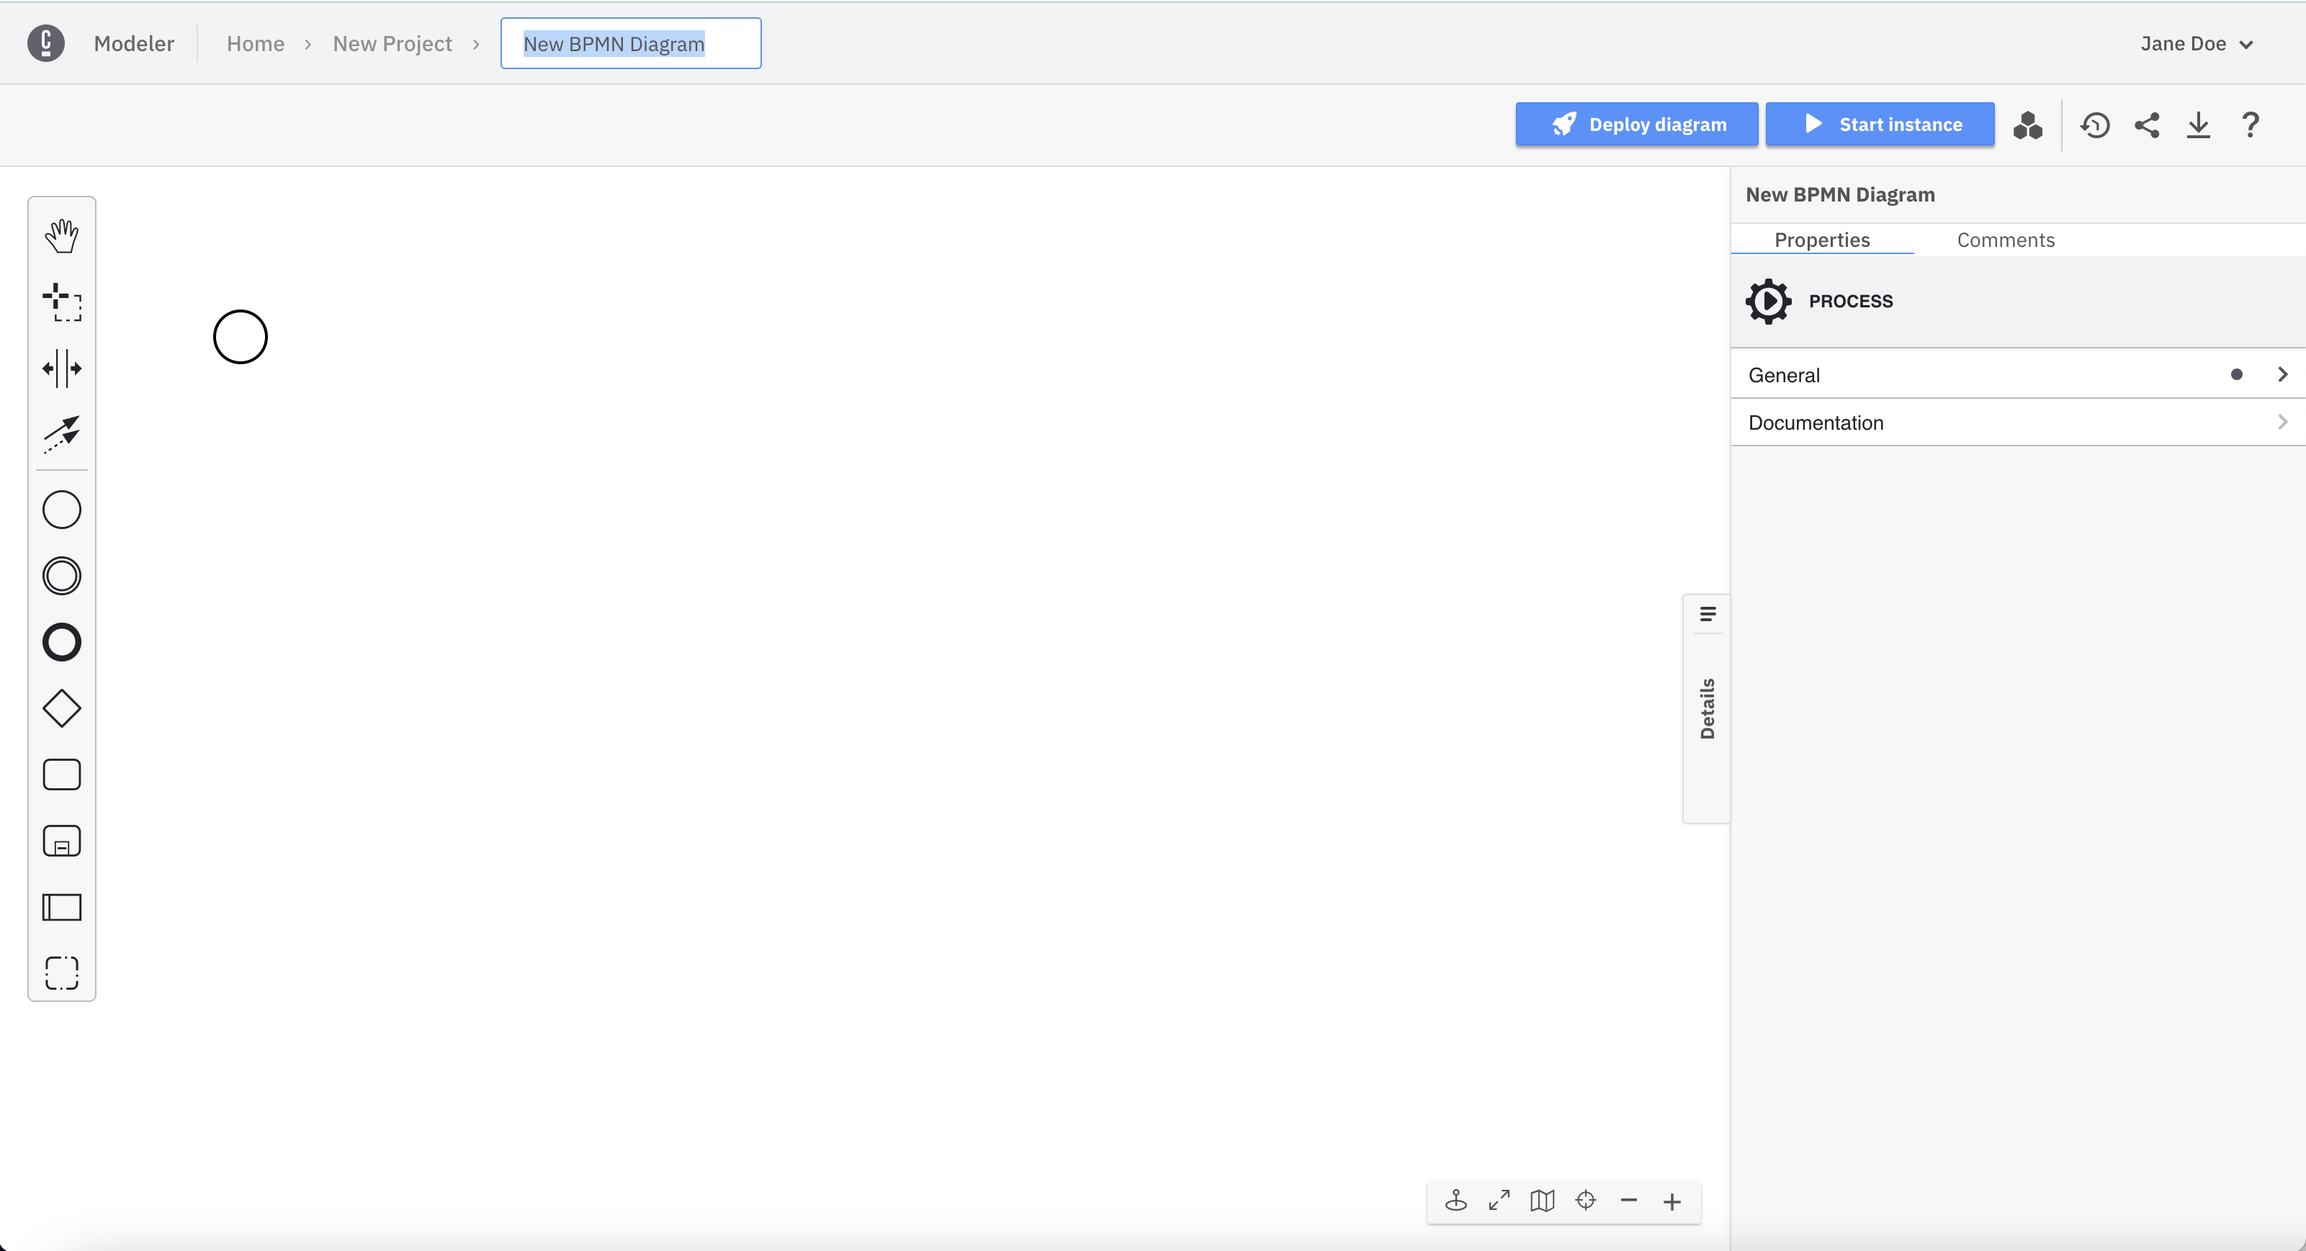
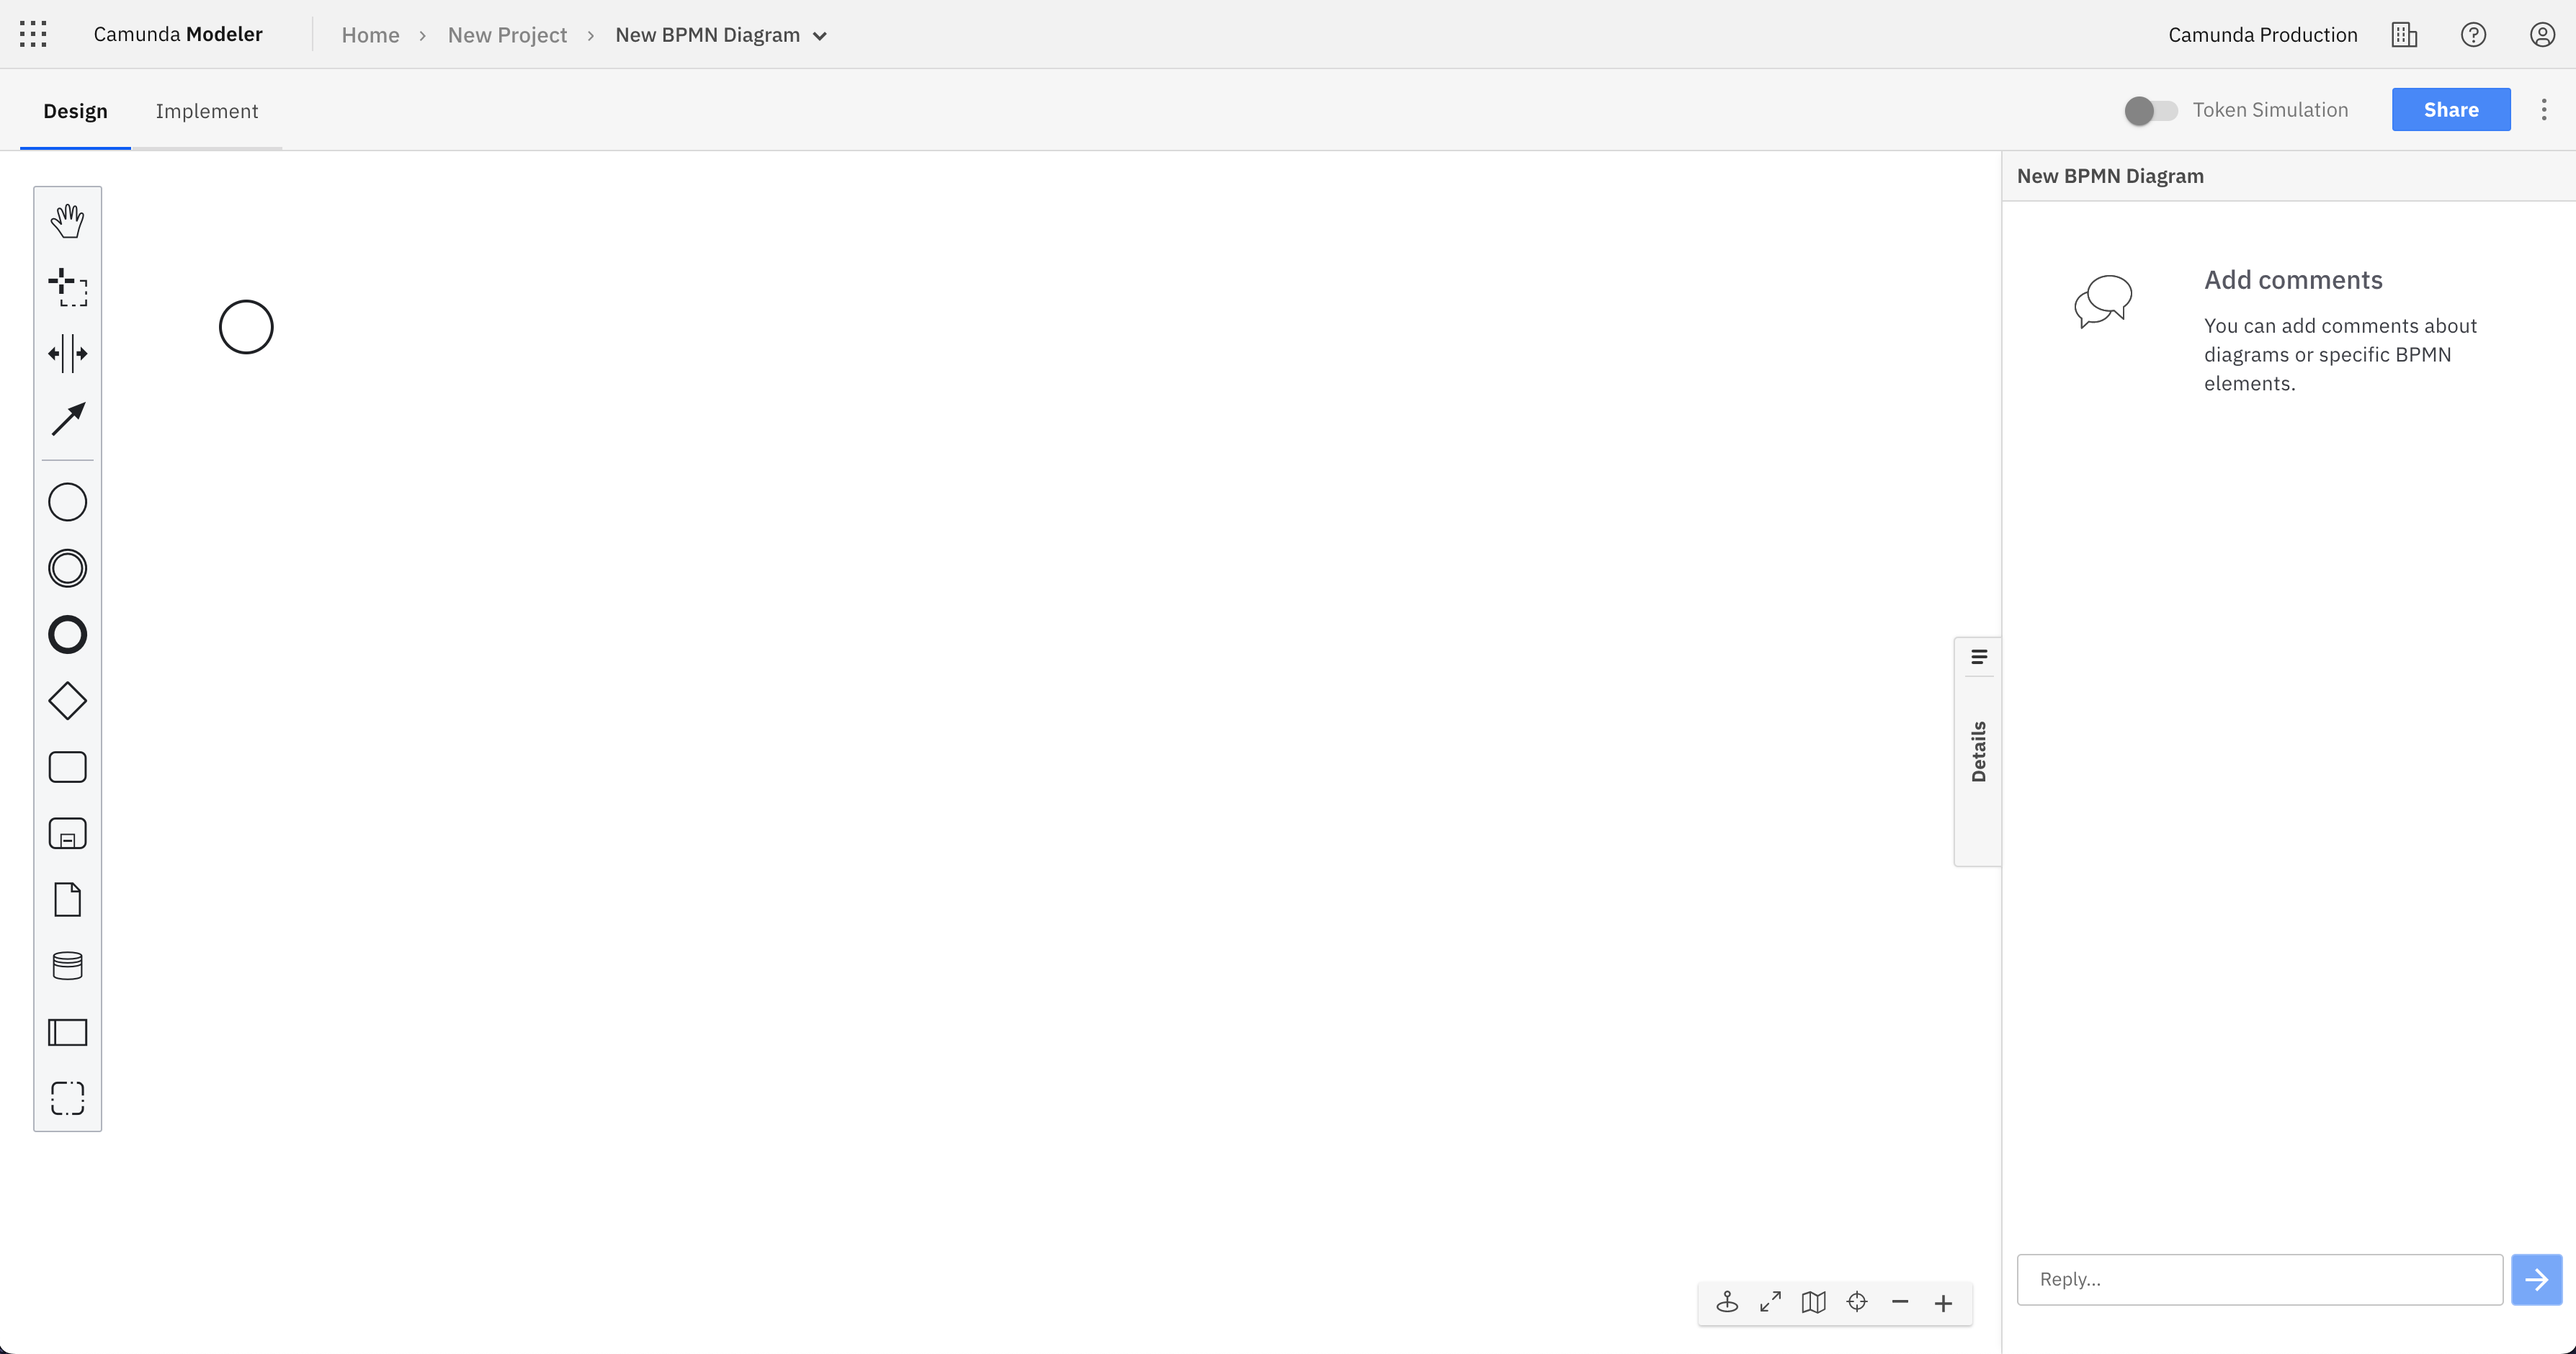
docs(bpmn-modes): add documentation about dedicated modes, and update screenshots

diff --git a/sidebars.js b/sidebars.js
@@ -115,6 +115,13 @@ module.exports = {
           "Web Modeler": [
             "components/modeler/web-modeler/new-web-modeler",
             "components/modeler/web-modeler/launch-cloud-modeler",
+            {
+              "Diagram dedicated modes": [
+                "components/modeler/web-modeler/about-dedicated-modes",
+                "components/modeler/web-modeler/design-your-process",
+                "components/modeler/web-modeler/implement-your-process",
+              ],
+            },
             "components/modeler/web-modeler/model-your-first-diagram",
             "components/modeler/web-modeler/import-diagram",
             "components/modeler/web-modeler/fix-problems-in-your-diagram",

diff --git a/docs/components/modeler/web-modeler/design-your-process.md b/docs/components/modeler/web-modeler/design-your-process.md
@@ -1,0 +1,21 @@
+---
+id: design-your-process
+title: Design your process
+description: "Design mode is tailored to business users and allows strategic modeling"
+---
+
+<span class="badge badge--cloud">Camunda Platform 8 only</span>
+
+In the **design** mode view, business users have access to a different workspace of Web Modeler with a reduced properties panel, where only comments are shown, and in general a decluttered user interface.
+
+All the technicalities, such as triggers to deploy the diagram or start the instance, are hidden.
+
+Linting is disabled, and problem annotations are discarded.
+
+The comments panel is collapsed when switching to the design mode, and if a user expands it, the state is persisted even when switching to another diagram.
+
+As a business user, you can **link decision** models and **process** models via call activities, and you can still be a **project owner**, even if you do no implementation.
+
+![design mode](img/design-mode.png)
+
+With the **design** mode view, users can model a process with ease and without feeling thrown into a complex development tool that does not speak their language, having a clear journey in place for them that incorporate focusing on modeling, sharing, and collaborating.

diff --git a/docs/components/modeler/web-modeler/about-dedicated-modes.md b/docs/components/modeler/web-modeler/about-dedicated-modes.md
@@ -1,0 +1,19 @@
+---
+id: about-dedicated-modes
+title: What are dedicated modes?
+description: "Dedicated modes are ways for business and IT professionals to collaborate effectively"
+---
+
+<span class="badge badge--cloud">Camunda Platform 8 only</span>
+
+Collaboration between business and IT professionals can be challenging, that's why we have introduced two modes in BPMN diagrams, that help users with different technical background to collaborate effectively.
+
+The **design** mode view is tailored to business users, and the **implementation** mode view is tailored to developers.
+
+Business users can now focus on modeling, sharing, and collaborating, while developers can work on implementation with ease.
+
+When accessing a BPMN diagram for the first time, the **design** mode will be the first selected option. Anyway, any further selection will be remembered and kept for the next sessions.
+
+![modes tab navigation](img/mode-tab-navigation.png)
+
+Note: When a process template is selected, the default mode will be the **implement** one.

diff --git a/docs/components/modeler/web-modeler/implement-your-process.md b/docs/components/modeler/web-modeler/implement-your-process.md
@@ -1,0 +1,17 @@
+---
+id: implement-your-process
+title: Implement your process
+description: "Implement mode is tailored to developers and allows full access to an implementation-focused workspace"
+---
+
+<span class="badge badge--cloud">Camunda Platform 8 only</span>
+
+In the **implementation** mode view, developers have access to a full, implementation-focused workspace of Web Modeler.
+
+The view has all possible implementation details, and the problems panel shows all implementation problems that need fixing before deployment.
+
+The properties panel automatically opens when switching to the implementation mode, and if collapsed, it stays collapsed as long as you navigate between diagrams.
+
+Developers can switch between the modes as they like, and when they open a process template, it opens in implementation.
+
+![implement mode](img/implement-mode.png)

diff --git a/docs/components/modeler/web-modeler/milestones.md b/docs/components/modeler/web-modeler/milestones.md
@@ -12,8 +12,8 @@ You can save a snapshot of your diagram as a milestone any time.
 
 If you make any mistakes while modeling, you can always go back to previously saved snapshots. You can also identify and compare the differences between two milestones.
 
-Find your milestones under the clock icon.
-![milestones](img/milestones/web-modeler-milestone-clock-icon-button.png)
+Find your milestones by opening the actions menu, and clicking on **History**.
+![milestones](img/milestones/web-modeler-milestone-action-menu-item.png)
 
 ### Creating milestones
 
